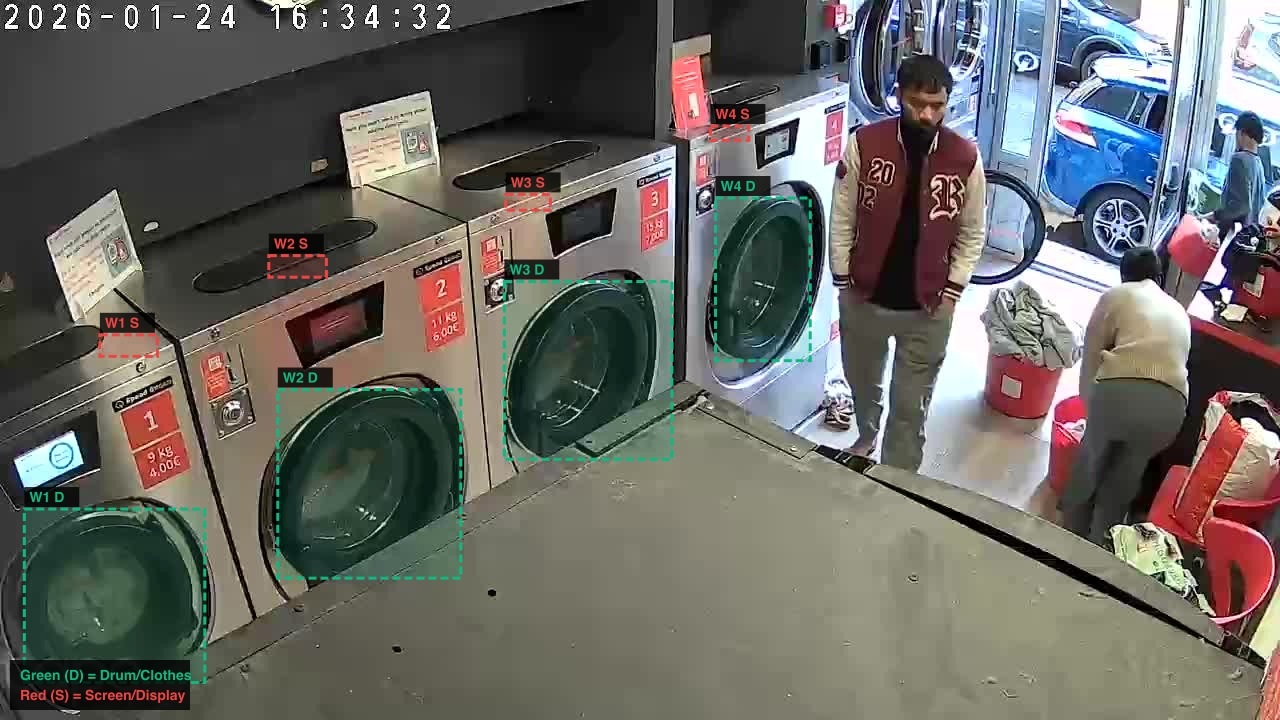
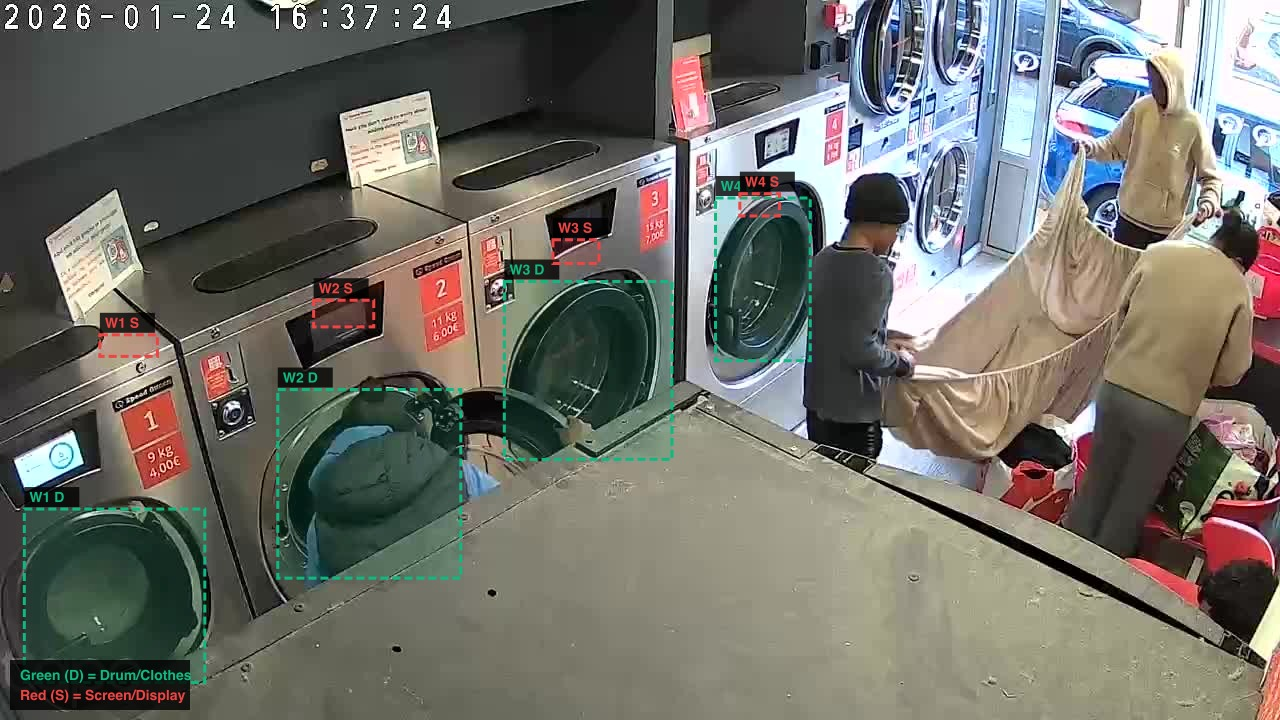
Recalibrate Brandoa1 W2-W4 display ROIs to target LCD screens
Position display detection areas precisely on the LCD screens
(small rectangles above red number labels) instead of picking
up ambient light and window reflections.

diff --git a/src/device/machineDetection.ts b/src/device/machineDetection.ts
@@ -81,17 +81,17 @@ export const MACHINE_CONFIGS: LaundryMachineConfig[] = [
       {
         id: 'w2', label: 'W2', type: 'washer', camera: 'front',
         drum: { x: 0.217, y: 0.541, width: 0.143, height: 0.262 },
-        display: { x: 0.210, y: 0.355, width: 0.045, height: 0.030 },
+        display: { x: 0.245, y: 0.417, width: 0.047, height: 0.037 },
       },
       {
         id: 'w3', label: 'W3', type: 'washer', camera: 'front',
         drum: { x: 0.394, y: 0.391, width: 0.131, height: 0.247 },
-        display: { x: 0.395, y: 0.270, width: 0.035, height: 0.022 },
+        display: { x: 0.432, y: 0.333, width: 0.036, height: 0.033 },
       },
       {
         id: 'w4', label: 'W4', type: 'washer', camera: 'front',
         drum: { x: 0.559, y: 0.275, width: 0.074, height: 0.226 },
-        display: { x: 0.555, y: 0.175, width: 0.030, height: 0.020 },
+        display: { x: 0.578, y: 0.269, width: 0.031, height: 0.031 },
       },
       // Back camera - 4 dryers (shows dryers in UI)
       {

diff --git a/tools/draw-roi-overlays.js b/tools/draw-roi-overlays.js
@@ -19,13 +19,13 @@ const CONFIGS = {
       display: { x: 0.078, y: 0.465, width: 0.045, height: 0.030 } },
     { id: 'w2', label: 'W2', type: 'washer',
       drum: { x: 0.217, y: 0.541, width: 0.143, height: 0.262 },
-      display: { x: 0.210, y: 0.355, width: 0.045, height: 0.030 } },
+      display: { x: 0.245, y: 0.417, width: 0.047, height: 0.037 } },
     { id: 'w3', label: 'W3', type: 'washer',
       drum: { x: 0.394, y: 0.391, width: 0.131, height: 0.247 },
-      display: { x: 0.395, y: 0.270, width: 0.035, height: 0.022 } },
+      display: { x: 0.432, y: 0.333, width: 0.036, height: 0.033 } },
     { id: 'w4', label: 'W4', type: 'washer',
       drum: { x: 0.559, y: 0.275, width: 0.074, height: 0.226 },
-      display: { x: 0.555, y: 0.175, width: 0.030, height: 0.020 } },
+      display: { x: 0.578, y: 0.269, width: 0.031, height: 0.031 } },
   ],
   brandoa1_back: [
     // 4 dryers
